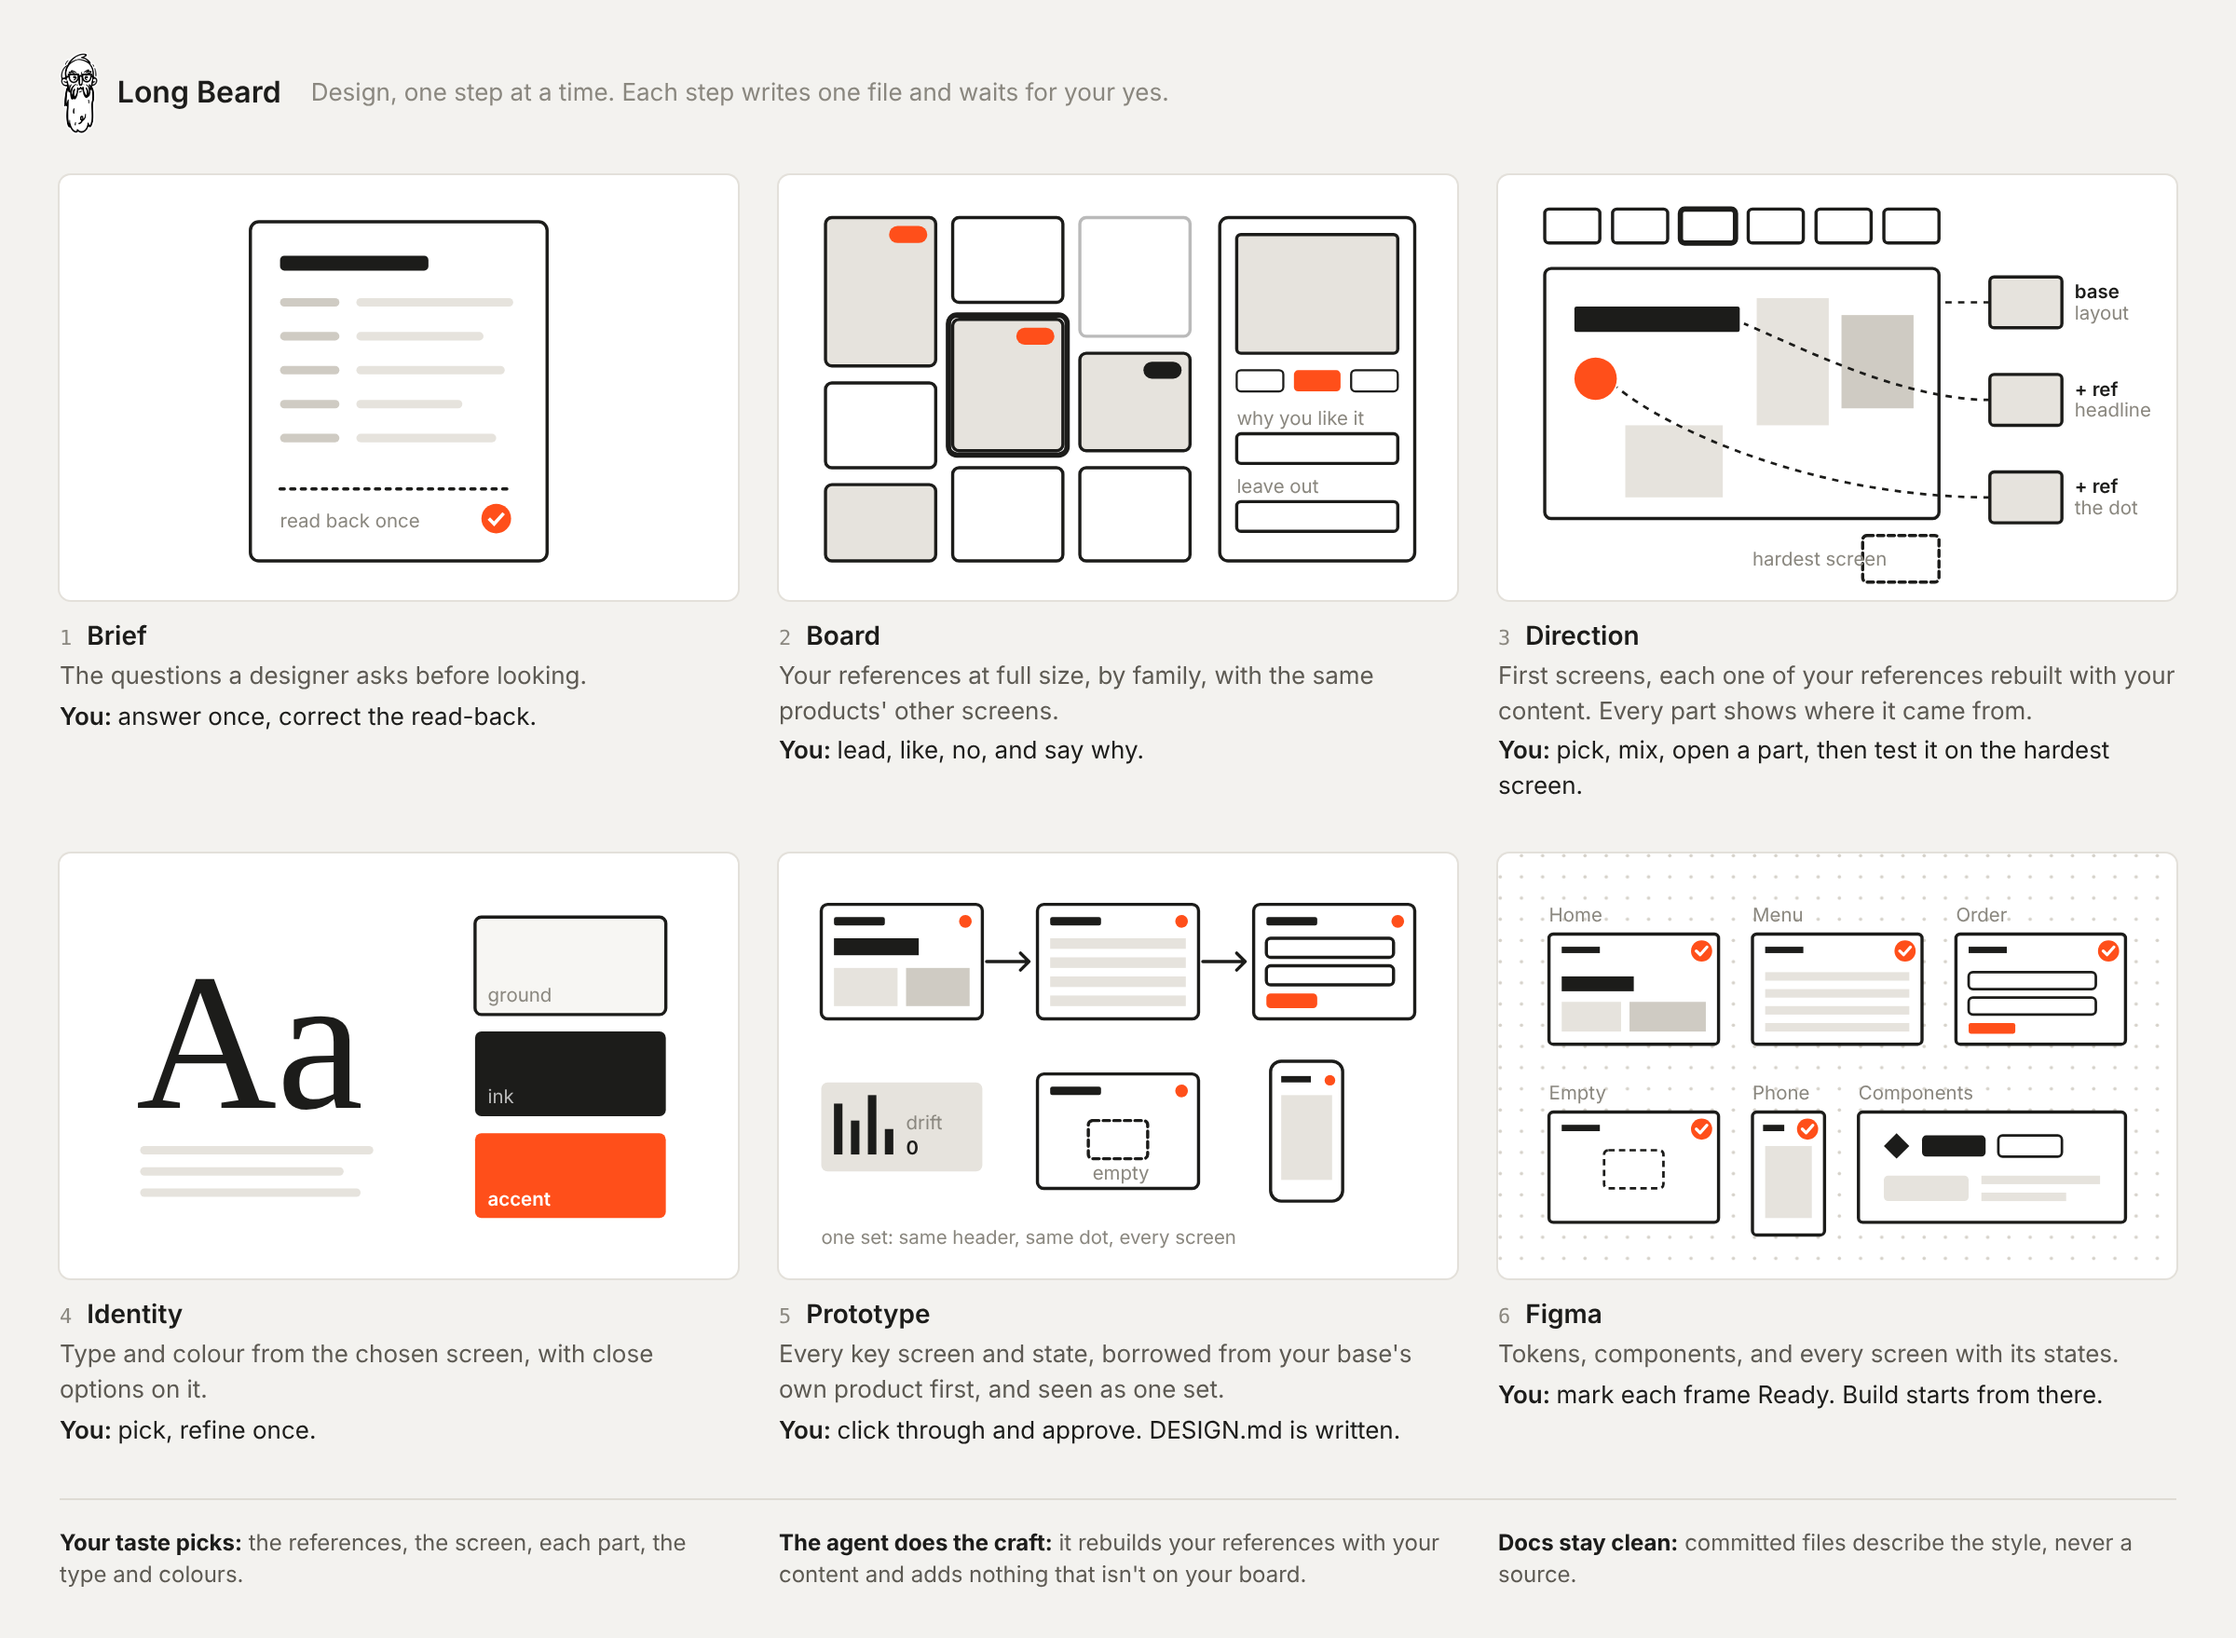
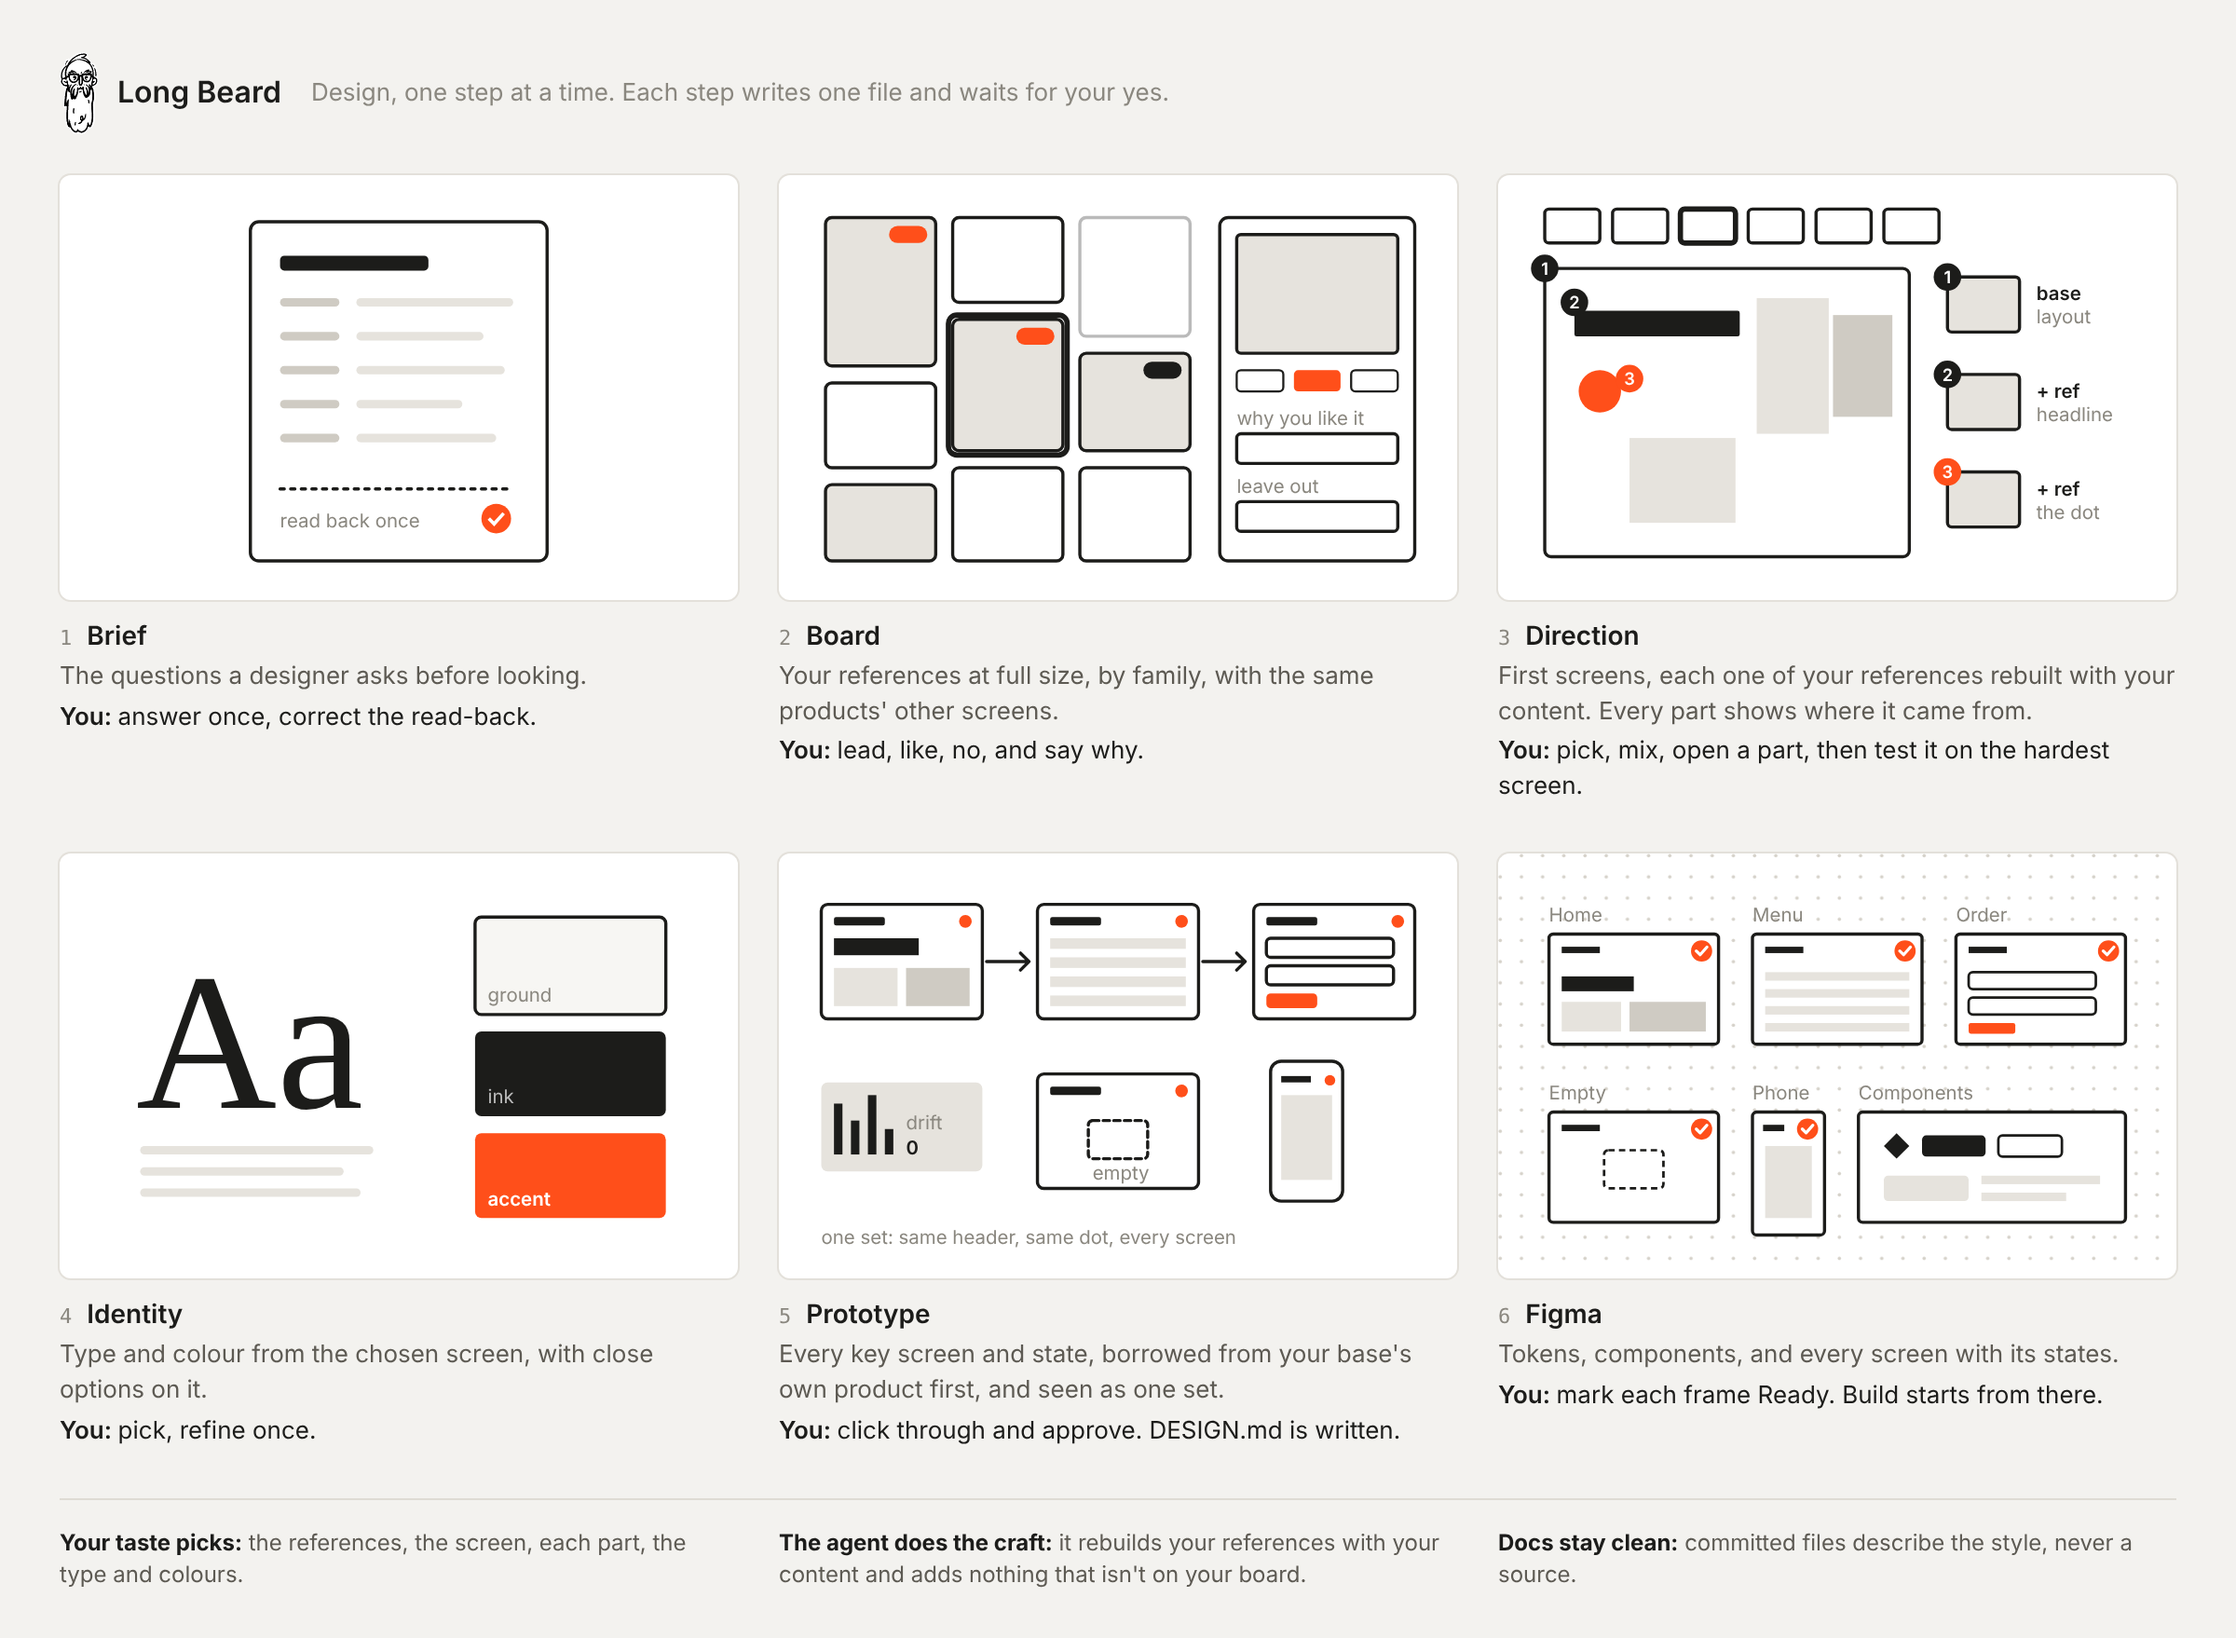
Flow graphic: the direction tile shows each part's source with numbered marks, no dashed curves or hardest-screen box
Claude-Session: https://claude.ai/code/session_01HLXJ1ZY9q8Xf7FQxKBVNQW

Changed region(s): [[0.6875, 0.1536, 0.9688, 0.3686]]

diff --git a/assets/flow-design.html b/assets/flow-design.html
@@ -46,15 +46,7 @@ svg text{font:600 9px Inter,system-ui,sans-serif;fill:var(--i)}svg .m{font-weigh
 </svg></div><h3><i>2</i>Board</h3><p>Your references at full size, by family, with the same products' other screens.</p><p class=you>lead, like, no, and say why.</p></div>
 
 <div><div class=pic><svg viewBox="0 0 320 200">
-<g class=s><rect x=22 y=16 width=26 height=16 rx=2 /><rect x=54 y=16 width=26 height=16 rx=2 /><rect x=86 y=16 width=26 height=16 rx=2 stroke-width=2.5 /><rect x=118 y=16 width=26 height=16 rx=2 /><rect x=150 y=16 width=26 height=16 rx=2 /><rect x=182 y=16 width=26 height=16 rx=2 /></g>
-<rect class=s x=22 y=44 width=186 height=118 rx=3 fill=#fff />
-<rect x=36 y=62 width=78 height=12 rx=1 fill=#1c1c1a /><circle class=a cx=46 cy=96 r=10 />
-<rect class="f" x=122 y=58 width=34 height=60 /><rect class="f2" x=162 y=66 width=34 height=44 /><rect class=f x=60 y=118 width=46 height=34 />
-<rect class=s x=172 y=170 width=36 height=22 rx=2 stroke-dasharray="3 2" /><text x=120 y=184 class=m>hardest screen</text>
-<g><rect class="s f" x=232 y=48 width=34 height=24 rx=2 /><rect class="s f" x=232 y=94 width=34 height=24 rx=2 /><rect class="s f" x=232 y=140 width=34 height=24 rx=2 />
-<text x=272 y=58>base</text><text x=272 y=68 class=m>layout</text><text x=272 y=104>+ ref</text><text x=272 y=114 class=m>headline</text><text x=272 y=150>+ ref</text><text x=272 y=160 class=m>the dot</text></g>
-<path class=d d="M232 60H208" /><path class=d d="M232 106C190 106 140 80 116 70" /><path class=d d="M232 152C150 152 80 120 56 100" stroke=#ff4f1a />
-</svg></div><h3><i>3</i>Direction</h3><p>First screens, each one of your references rebuilt with your content. Every part shows where it came from.</p><p class=you>pick, mix, open a part, then test it on the hardest screen.</p></div>
+<rect x=22 y=16 width=26 height=16 rx=2 fill=#fff stroke=#1c1c1a stroke-width=1.5 /><rect x=54 y=16 width=26 height=16 rx=2 fill=#fff stroke=#1c1c1a stroke-width=1.5 /><rect x=86 y=16 width=26 height=16 rx=2 fill=#fff stroke=#1c1c1a stroke-width=2.5 /><rect x=118 y=16 width=26 height=16 rx=2 fill=#fff stroke=#1c1c1a stroke-width=1.5 /><rect x=150 y=16 width=26 height=16 rx=2 fill=#fff stroke=#1c1c1a stroke-width=1.5 /><rect x=182 y=16 width=26 height=16 rx=2 fill=#fff stroke=#1c1c1a stroke-width=1.5 /><rect x=22 y=44 width=172 height=136 rx=3 fill=#fff stroke=#1c1c1a stroke-width=1.5 /><rect x=36 y=64 width=78 height=12 rx=1 fill=#1c1c1a /><circle cx=48 cy=102 r=10 fill=#ff4f1a /><rect x=122 y=58 width=34 height=64 fill=#e6e3dd /><rect x=158 y=66 width=28 height=48 fill=#cfcbc3 /><rect x=62 y=124 width=50 height=40 fill=#e6e3dd /><circle cx=22 cy=44 r=6.5 fill=#1c1c1a /><text x=22 y=47 text-anchor=middle style="font:600 8px Inter,sans-serif;fill:#fff">1</text><circle cx=36 cy=60 r=6.5 fill=#1c1c1a /><text x=36 y=63 text-anchor=middle style="font:600 8px Inter,sans-serif;fill:#fff">2</text><circle cx=62 cy=96 r=6.5 fill=#ff4f1a /><text x=62 y=99 text-anchor=middle style="font:600 8px Inter,sans-serif;fill:#fff">3</text><rect x=212 y=48 width=34 height=26 rx=2 fill=#e6e3dd stroke=#1c1c1a stroke-width=1.5 /><circle cx=212 cy=48 r=6.5 fill=#1c1c1a /><text x=212 y=51 text-anchor=middle style="font:600 8px Inter,sans-serif;fill:#fff">1</text><text x=254 y=59>base</text><text x=254 y=70 class=m>layout</text><rect x=212 y=94 width=34 height=26 rx=2 fill=#e6e3dd stroke=#1c1c1a stroke-width=1.5 /><circle cx=212 cy=94 r=6.5 fill=#1c1c1a /><text x=212 y=97 text-anchor=middle style="font:600 8px Inter,sans-serif;fill:#fff">2</text><text x=254 y=105>+ ref</text><text x=254 y=116 class=m>headline</text><rect x=212 y=140 width=34 height=26 rx=2 fill=#e6e3dd stroke=#1c1c1a stroke-width=1.5 /><circle cx=212 cy=140 r=6.5 fill=#ff4f1a /><text x=212 y=143 text-anchor=middle style="font:600 8px Inter,sans-serif;fill:#fff">3</text><text x=254 y=151>+ ref</text><text x=254 y=162 class=m>the dot</text></svg></div><h3><i>3</i>Direction</h3><p>First screens, each one of your references rebuilt with your content. Every part shows where it came from.</p><p class=you>pick, mix, open a part, then test it on the hardest screen.</p></div>
 
 <div><div class=pic><svg viewBox="0 0 320 200">
 <text x=36 y=120 style="font:300 92px Georgia,'Times New Roman',serif;fill:#1c1c1a">Aa</text>
